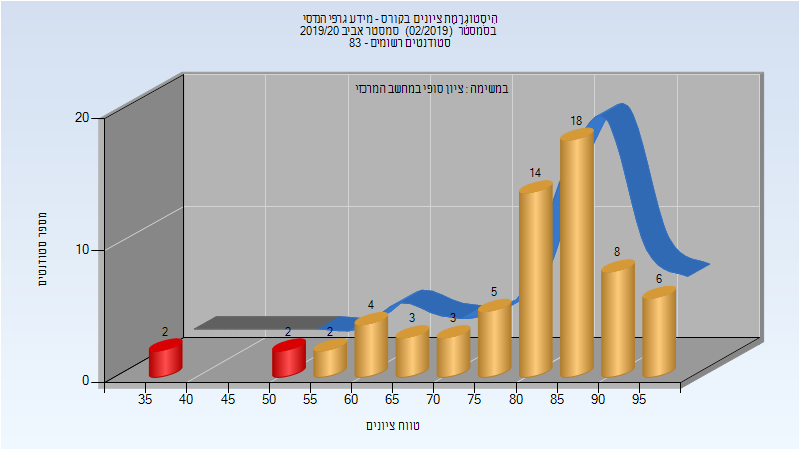
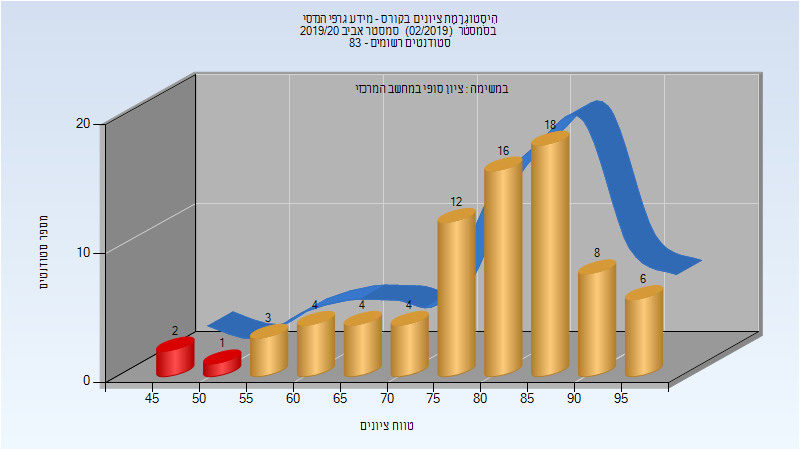
Deploy michael-maltsev/technion-histograms to github.com/michael-maltsev/technion-histograms.git:gh-pages

diff --git a/014008/index.html b/014008/index.html
@@ -1286,13 +1286,13 @@
 </thead>
 <tbody>
 <tr>
-<td>67</td>
-<td>63/4</td>
-<td>94</td>
-<td>37</td>
+<td>78</td>
+<td>75/3</td>
+<td>96</td>
+<td>49</td>
 <td>99</td>
-<td>80.254</td>
-<td>84</td>
+<td>80.038</td>
+<td>82</td>
 </tr>
 </tbody>
 </table>

diff --git a/014327/index.html b/014327/index.html
@@ -422,13 +422,13 @@
 </thead>
 <tbody>
 <tr>
-<td>26</td>
-<td>24/2</td>
-<td>92</td>
-<td>39</td>
+<td>29</td>
+<td>28/1</td>
 <td>97</td>
-<td>76.115</td>
-<td>78.5</td>
+<td>50</td>
+<td>97</td>
+<td>77.379</td>
+<td>79</td>
 </tr>
 </tbody>
 </table>

diff --git a/014327/README.md b/014327/README.md
@@ -130,5 +130,5 @@
 
 | סטודנטים | עברו/נכשלו | אחוז עוברים | ציון מינימלי | ציון מקסימלי | ממוצע | חציון |
 | ---- | ---- | ---- | ---- | ---- | ---- | ---- |
-| 26 | 24/2 | 92 | 39 | 97 | 76.115 | 78.5 |
+| 29 | 28/1 | 97 | 50 | 97 | 77.379 | 79 |
 

diff --git a/014008/README.md b/014008/README.md
@@ -403,5 +403,5 @@
 
 | סטודנטים | עברו/נכשלו | אחוז עוברים | ציון מינימלי | ציון מקסימלי | ממוצע | חציון |
 | ---- | ---- | ---- | ---- | ---- | ---- | ---- |
-| 67 | 63/4 | 94 | 37 | 99 | 80.254 | 84 |
+| 78 | 75/3 | 96 | 49 | 99 | 80.038 | 82 |
 
